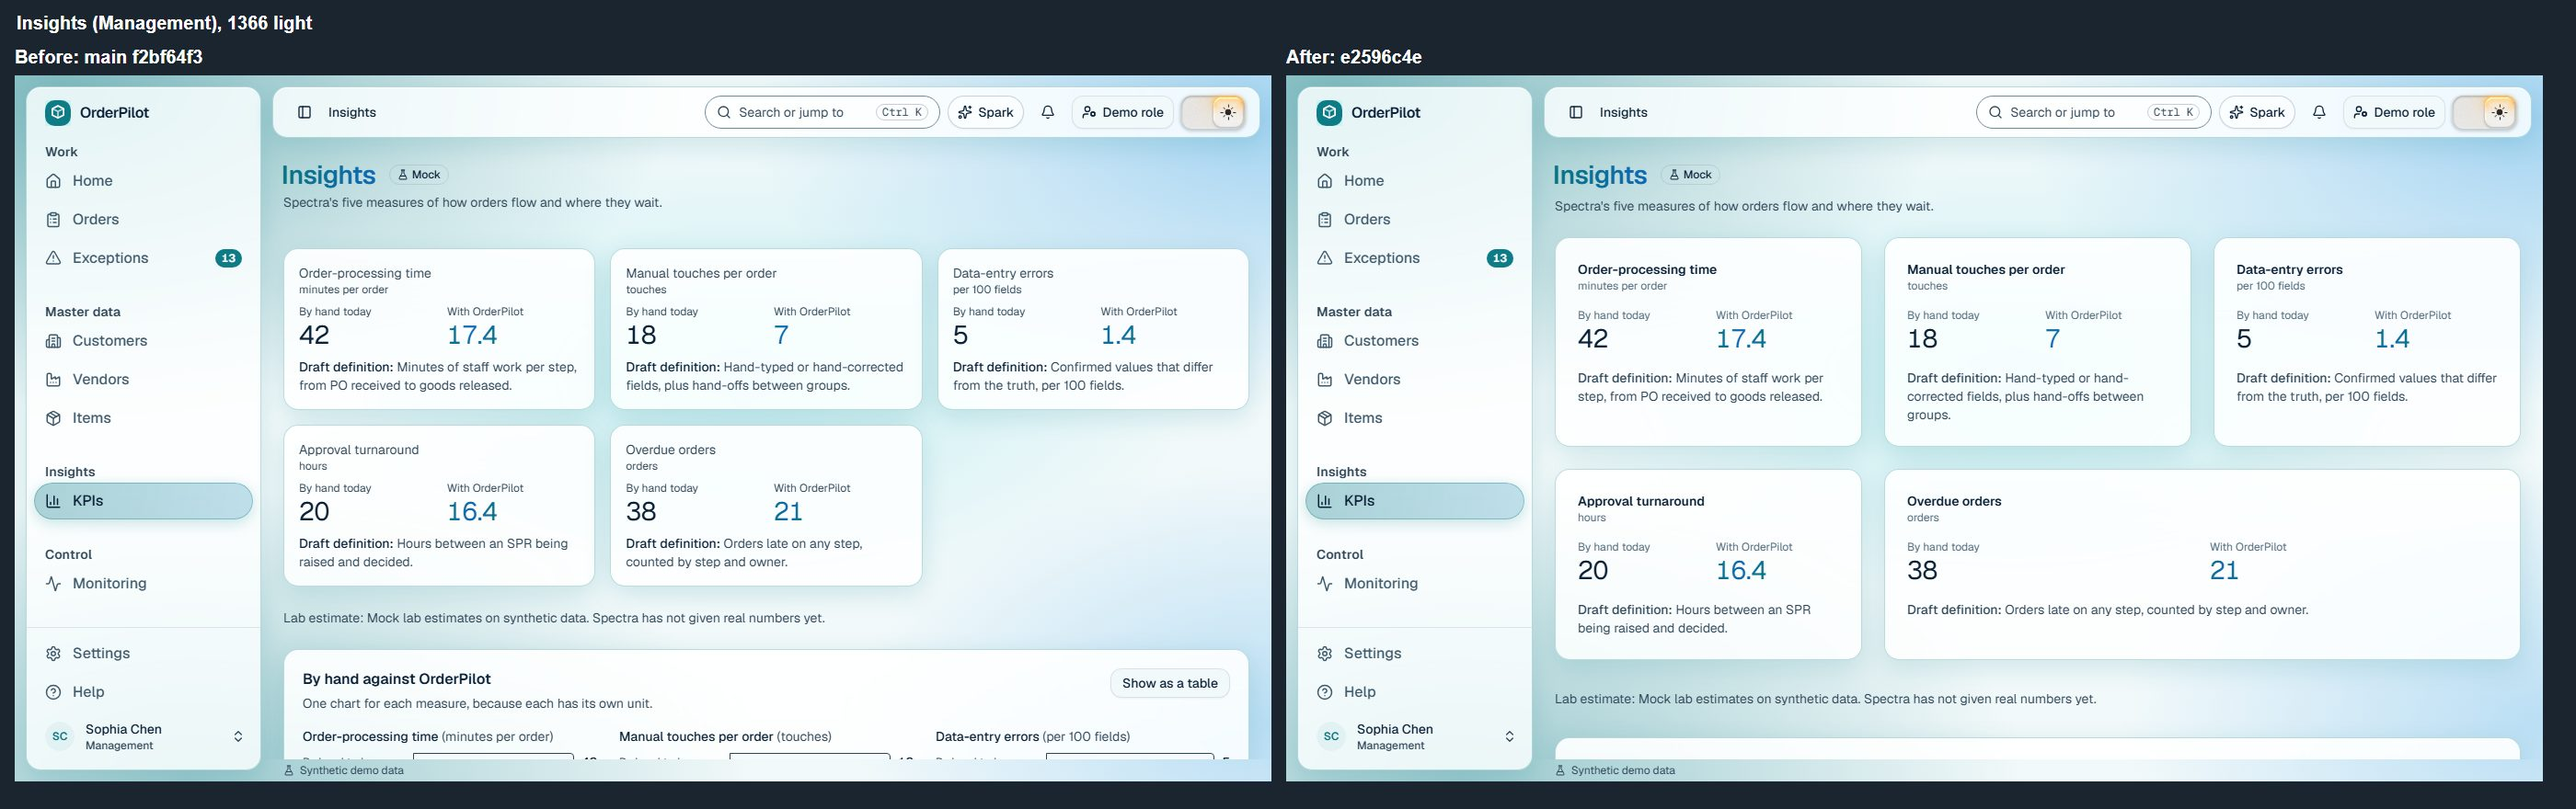
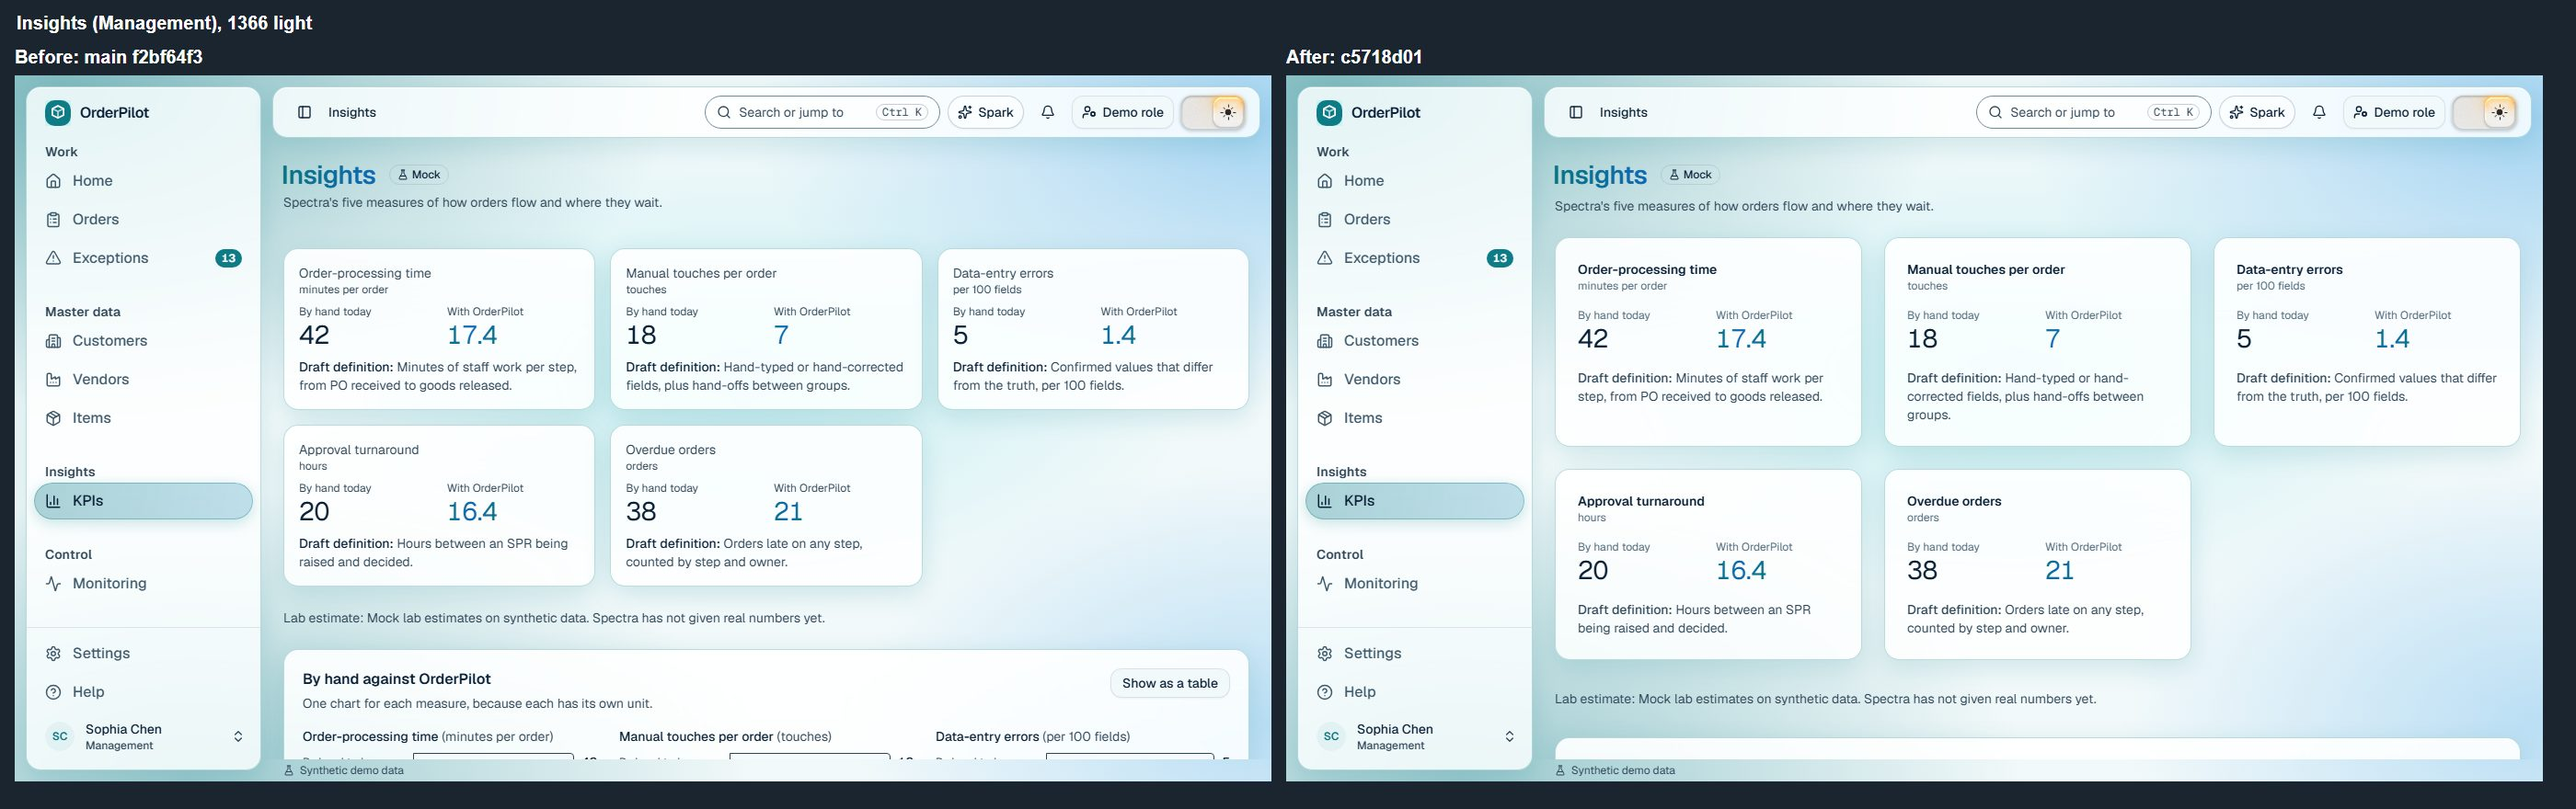
docs: the New order sheets and the Home, Insights and Settings sheets retaken

diff --git a/docs/design/screenshots/platform/visual-hierarchy/README.md b/docs/design/screenshots/platform/visual-hierarchy/README.md
@@ -3,7 +3,7 @@
 Story [#364](https://github.com/xiu2809xiu-rgb/orderpilot/issues/364), [ADR 0063](../../../../adr/0063-one-hierarchy-and-one-rhythm.md). Every sheet puts the page on main (left) beside the same page on this branch (right), as the Docker review build draws it, in Chromium at 1366 x 768 unless the name says otherwise. Synthetic demo data throughout.
 
 - **Before:** main at f2bf64f3 (the survey pictures).
-- **After:** this branch at e2596c4e, built as a Docker image of the branch.
+- **After:** this branch at c5718d01 (the code of the final commit; later commits change only tests and docs), built as a Docker image of the branch.
 
 ## The sheets
 
@@ -22,20 +22,23 @@ Story [#364](https://github.com/xiu2809xiu-rgb/orderpilot/issues/364), [ADR 0063
 | `audit-auditor-1366-light.jpg`                               | The audit log: the search hint 8 px over its toolbar                                                            |
 | `home-support-1366-dark.jpg`, `orders-support-1366-dark.jpg` | Home and Orders in the dark theme                                                                               |
 | `home-support-390-light.jpg`, `orders-support-390-light.jpg` | Home and Orders at 390 px with a touch screen                                                                   |
+| `orders-new-support-1366-light.jpg`                          | New order: the head 24 px over the toolbar, 24 px padded cards                                                  |
+| `orders-new-support-390-light.jpg`                           | New order at 390 px with a touch screen (after only; main was not photographed at this width)                   |
 
 ## What was measured
 
 Head to the first block, in px, at 1366 light, on the main build and on this branch (a Chromium probe over the same pages as the survey; the main build used for this reading was the review site's, 28 hours older than f2bf64f3, and it agrees with the survey's own head gaps):
 
-| Page                                                | Before | After |
-| --------------------------------------------------- | ------ | ----- |
-| Orders, order page, My tasks, Reminders, Exceptions | 16     | 24    |
-| Customers, Vendors, Items lists                     | 16     | 24    |
-| Audit, Governance, Monitoring                       | 16     | 24    |
-| Customer, vendor and item records                   | 40     | 24    |
-| Insights                                            | 40     | 24    |
-| Order steps                                         | 48     | 24    |
-| Home, Upload, Settings (five sections)              | 24     | 24    |
+| Page                                                | Before                                  | After                      |
+| --------------------------------------------------- | --------------------------------------- | -------------------------- |
+| Orders, order page, My tasks, Reminders, Exceptions | 16                                      | 24                         |
+| Customers, Vendors, Items lists                     | 16                                      | 24                         |
+| Audit, Governance, Monitoring                       | 16                                      | 24                         |
+| Customer, vendor and item records                   | 40                                      | 24                         |
+| Insights                                            | 40                                      | 24                         |
+| Order steps                                         | 48                                      | 24                         |
+| Home, Upload, Settings (five sections)              | 24                                      | 24                         |
+| New order (`/orders/new`), 1366 and 390             | about 40 (read from the survey picture) | 24 (measured, both widths) |
 
 Other numbers, from the survey's measuring script run the same way on both builds:
 
